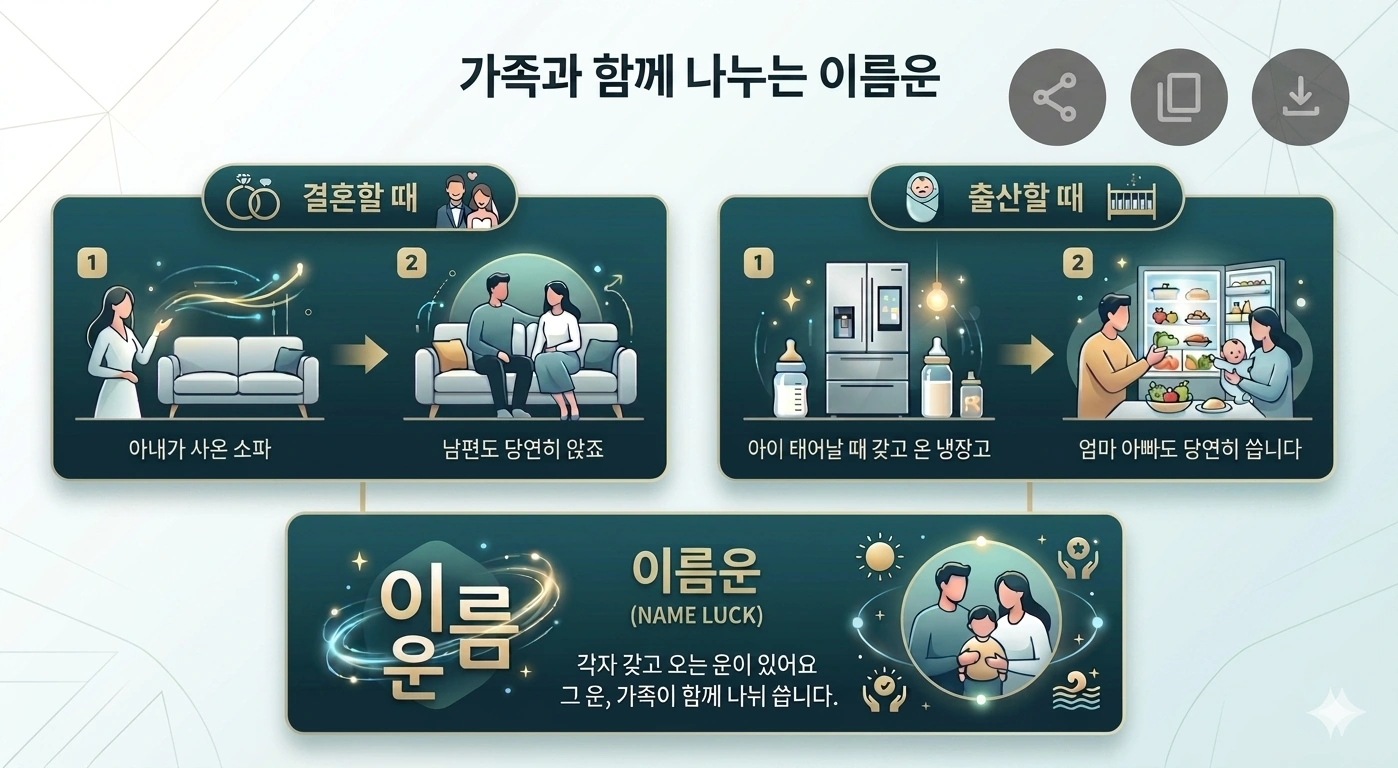
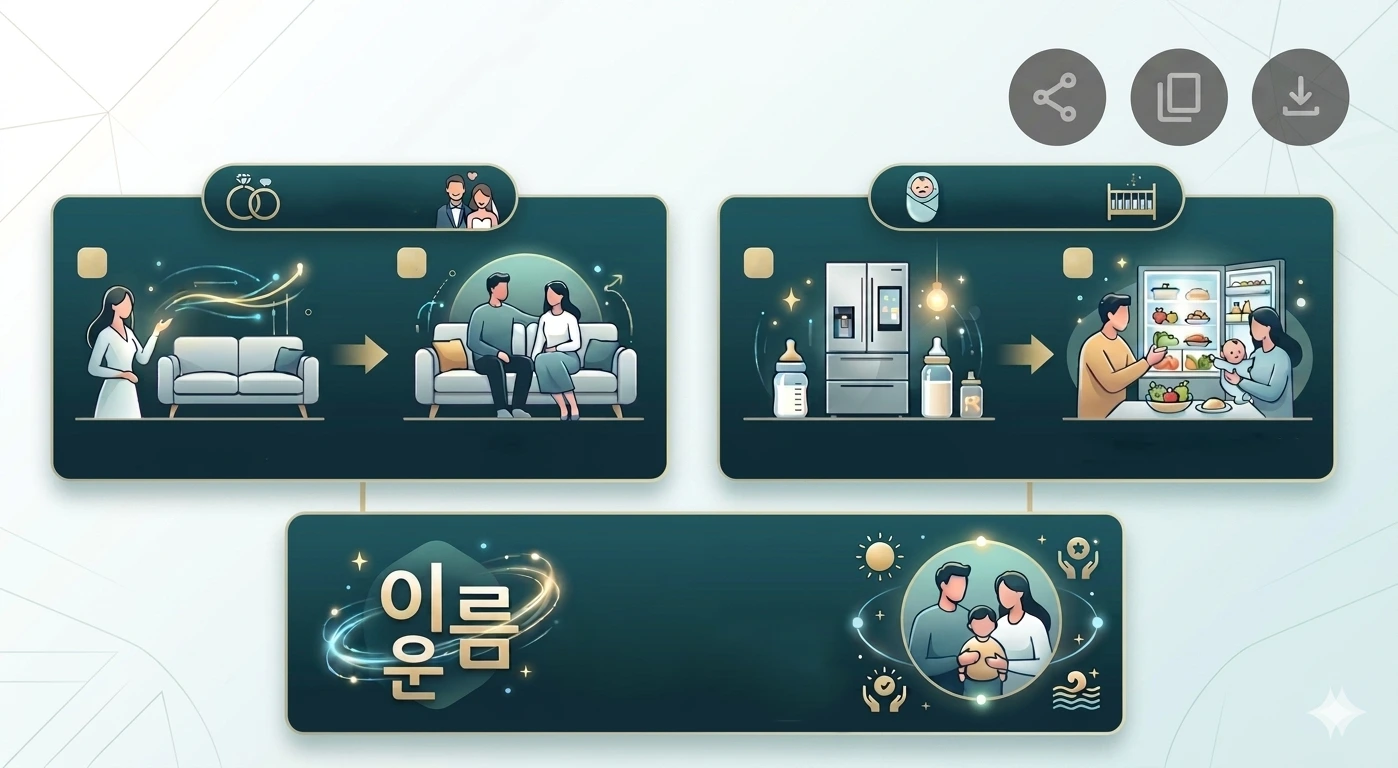
Feature: 가족 상담 원칙 인포그래픽 - SVG 텍스트 오버레이로 선명도 개선
이미지 위에 SVG로 텍스트/숫자/배지를 직접 렌더링
어떤 화면 크기에서도 픽셀 선명도 보장

diff --git a/client/src/components/FamilyNameLuckInfographic.tsx b/client/src/components/FamilyNameLuckInfographic.tsx
@@ -1,0 +1,78 @@
+export function FamilyNameLuckInfographic() {
+  return (
+    <div className="relative w-full rounded-2xl overflow-hidden" style={{ aspectRatio: '1398/768' }}>
+      <img
+        src="/family-consulting-rule.webp"
+        alt="가족과 함께 나누는 이름운"
+        className="absolute inset-0 w-full h-full object-cover"
+      />
+
+      {/* SVG 텍스트 오버레이 - viewBox 좌표계로 완벽 스케일 */}
+      <svg
+        className="absolute inset-0 w-full h-full"
+        viewBox="0 0 1398 768"
+        xmlns="http://www.w3.org/2000/svg"
+      >
+        <defs>
+          <linearGradient id="goldGrad" x1="0%" y1="0%" x2="0%" y2="100%">
+            <stop offset="0%" stopColor="#f5e076" />
+            <stop offset="50%" stopColor="#d4af37" />
+            <stop offset="100%" stopColor="#c9a96e" />
+          </linearGradient>
+        </defs>
+
+        {/* ── 타이틀 ── */}
+        <text x="56" y="48" fontSize="30" fontWeight="800" fill="#1e2d3d" fontFamily="sans-serif" letterSpacing="-0.5">
+          가족과 함께 나누는 이름운
+        </text>
+
+        {/* ── 왼쪽 패널 배지: 결혼할 때 ── */}
+        <rect x="160" y="57" width="200" height="34" rx="17" fill="#0c3530" />
+        <text x="260" y="80" fontSize="15" fontWeight="600" fill="white" fontFamily="sans-serif" textAnchor="middle">
+          💍 결혼할 때
+        </text>
+
+        {/* ── 오른쪽 패널 배지: 출산할 때 ── */}
+        <rect x="852" y="57" width="200" height="34" rx="17" fill="#0c3530" />
+        <text x="952" y="80" fontSize="15" fontWeight="600" fill="white" fontFamily="sans-serif" textAnchor="middle">
+          👶 출산할 때
+        </text>
+
+        {/* ── 숫자 배지 ── */}
+        {/* 왼쪽 패널 1 */}
+        <rect x="22" y="100" width="26" height="26" rx="5" fill="#c9a570" />
+        <text x="35" y="118" fontSize="15" fontWeight="700" fill="white" fontFamily="sans-serif" textAnchor="middle">1</text>
+
+        {/* 왼쪽 패널 2 */}
+        <rect x="320" y="100" width="26" height="26" rx="5" fill="#c9a570" />
+        <text x="333" y="118" fontSize="15" fontWeight="700" fill="white" fontFamily="sans-serif" textAnchor="middle">2</text>
+
+        {/* 오른쪽 패널 1 */}
+        <rect x="690" y="100" width="26" height="26" rx="5" fill="#c9a570" />
+        <text x="703" y="118" fontSize="15" fontWeight="700" fill="white" fontFamily="sans-serif" textAnchor="middle">1</text>
+
+        {/* 오른쪽 패널 2 */}
+        <rect x="988" y="100" width="26" height="26" rx="5" fill="#c9a570" />
+        <text x="1001" y="118" fontSize="15" fontWeight="700" fill="white" fontFamily="sans-serif" textAnchor="middle">2</text>
+
+        {/* ── 캡션 ── */}
+        <text x="168" y="468" fontSize="13" fill="white" fontFamily="sans-serif" textAnchor="middle">아내가 사온 소파</text>
+        <text x="468" y="468" fontSize="13" fill="white" fontFamily="sans-serif" textAnchor="middle">남편도 당연히 앉죠</text>
+
+        <text x="822" y="455" fontSize="13" fill="white" fontFamily="sans-serif" textAnchor="middle">아이 태어날 때</text>
+        <text x="822" y="472" fontSize="13" fill="white" fontFamily="sans-serif" textAnchor="middle">갖고 온 냉장고</text>
+        <text x="1155" y="468" fontSize="13" fill="white" fontFamily="sans-serif" textAnchor="middle">엄마 아빠도 당연히 씁니다</text>
+
+        {/* ── 하단 배너: 이름운 대형 텍스트 ── */}
+        <text x="228" y="635" fontSize="58" fontWeight="900" fontStyle="italic" fill="url(#goldGrad)" fontFamily="sans-serif">이름</text>
+        <text x="245" y="710" fontSize="58" fontWeight="900" fontStyle="italic" fill="url(#goldGrad)" fontFamily="sans-serif">운</text>
+
+        {/* ── 하단 배너: 이름운 타이틀 + 설명 ── */}
+        <text x="390" y="585" fontSize="20" fontWeight="700" fill="#d4af37" fontFamily="sans-serif">이름운</text>
+        <text x="390" y="612" fontSize="13" fill="#c9a96e" fontFamily="sans-serif">(NAME LUCK)</text>
+        <text x="390" y="648" fontSize="14" fill="white" fontFamily="sans-serif">각자 갖고 오는 운이 있어요</text>
+        <text x="390" y="672" fontSize="14" fill="white" fontFamily="sans-serif">그 운, 가족이 함께 나눠 씁니다.</text>
+      </svg>
+    </div>
+  );
+}

diff --git a/client/src/pages/FamilyPolicy.tsx b/client/src/pages/FamilyPolicy.tsx
@@ -1,3 +1,4 @@
+import { FamilyNameLuckInfographic } from "@/components/FamilyNameLuckInfographic";
 import { Navbar } from "@/components/Navbar";
 import { Footer } from "@/components/Footer";
 import { Card } from "@/components/ui/card";
@@ -157,12 +158,8 @@ export default function FamilyPolicy() {
                     강하게 주고 받습니다.
                   </p>
 
-                  {/* 가족과 함께 나누는 이름운 이미지 */}
-                  <img
-                    src="/family-consulting-rule.webp"
-                    alt="가족과 함께 나누는 이름운"
-                    className="mt-6 w-full rounded-2xl"
-                  />
+                  {/* 가족과 함께 나누는 이름운 */}
+                  <div className="mt-6"><FamilyNameLuckInfographic /></div>
 
                   <div className="mt-6">
                     <h2 className="font-bold text-lg mb-2">💍 결혼, 혼을 연결하는 인연</h2>

diff --git a/client/src/pages/InstagramHome.tsx b/client/src/pages/InstagramHome.tsx
@@ -37,6 +37,7 @@ import stepsCharacterImage from "@assets/KakaoTalk_20251226_164036756_1766734877
 import guideCharacterImage from "@assets/KakaoTalk_20251226_151729031_1766729868877.png";
 import pricingCharacterImage from "@assets/KakaoTalk_20251226_150428417_1766729101276.png";
 import butterflyCharacterImage from "@assets/KakaoTalk_20251226_134433821_1766724285654.png";
+import { FamilyNameLuckInfographic } from "@/components/FamilyNameLuckInfographic";
 
 const INLINE_IG_STYLES = `
   html.ua-instagram .ig-tt-dialog h2,
@@ -688,12 +689,8 @@ export default function InstagramHome() {
           <div className="flex-1 overflow-y-auto overflow-x-hidden px-6 py-8 sm:px-8">
             <div className="flex flex-col">
 
-              {/* 가족과 함께 나누는 이름운 이미지 */}
-              <img
-                src="/family-consulting-rule.webp"
-                alt="가족과 함께 나누는 이름운"
-                className="w-full rounded-2xl mb-6"
-              />
+              {/* 가족과 함께 나누는 이름운 */}
+              <div className="mb-6"><FamilyNameLuckInfographic /></div>
 
               {/* 상단 2개 카드 - 결혼, 자녀 */}
               <div className="grid gap-6 md:grid-cols-2 z-10 relative">

diff --git a/client/src/pages/Services.tsx b/client/src/pages/Services.tsx
@@ -11,6 +11,7 @@ import { Search, Star, Flower, Baby, Building, Layers, Compass, Clock, CheckCirc
 import { useLocation } from "wouter";
 import { useEffect, useState, useRef } from "react";
 import servicesCharacterImage from "@assets/KakaoTalk_20251226_140639616_1766725668691.png";
+import { FamilyNameLuckInfographic } from "@/components/FamilyNameLuckInfographic";
 
 export default function Services() {
   const [, setLocation] = useLocation();
@@ -801,12 +802,8 @@ export default function Services() {
           <div className="flex-1 overflow-y-auto overflow-x-hidden px-6 py-8 sm:px-8">
             <div className="flex flex-col">
 
-              {/* 가족과 함께 나누는 이름운 이미지 */}
-              <img
-                src="/family-consulting-rule.webp"
-                alt="가족과 함께 나누는 이름운"
-                className="w-full rounded-2xl mb-6"
-              />
+              {/* 가족과 함께 나누는 이름운 */}
+              <div className="mb-6"><FamilyNameLuckInfographic /></div>
 
               {/* 상단 2개 카드 - 결혼, 자녀 */}
               <div className="grid gap-6 md:grid-cols-2 z-10 relative">

diff --git a/client/src/pages/TikTokHome.tsx b/client/src/pages/TikTokHome.tsx
@@ -37,6 +37,7 @@ import stepsCharacterImage from "@assets/KakaoTalk_20251226_164036756_1766734877
 import guideCharacterImage from "@assets/KakaoTalk_20251226_151729031_1766729868877.png";
 import pricingCharacterImage from "@assets/KakaoTalk_20251226_150428417_1766729101276.png";
 import butterflyCharacterImage from "@assets/KakaoTalk_20251226_134433821_1766724285654.png";
+import { FamilyNameLuckInfographic } from "@/components/FamilyNameLuckInfographic";
 
 const INLINE_TT_STYLES = `
   html.ua-tiktok .ig-tt-dialog h2,
@@ -693,12 +694,8 @@ export default function TikTokHome() {
           <div className="flex-1 overflow-y-auto overflow-x-hidden px-6 py-8 sm:px-8">
             <div className="flex flex-col">
 
-              {/* 가족과 함께 나누는 이름운 이미지 */}
-              <img
-                src="/family-consulting-rule.webp"
-                alt="가족과 함께 나누는 이름운"
-                className="w-full rounded-2xl mb-6"
-              />
+              {/* 가족과 함께 나누는 이름운 */}
+              <div className="mb-6"><FamilyNameLuckInfographic /></div>
 
               {/* 상단 2개 카드 - 결혼, 자녀 */}
               <div className="grid gap-6 md:grid-cols-2 z-10 relative">